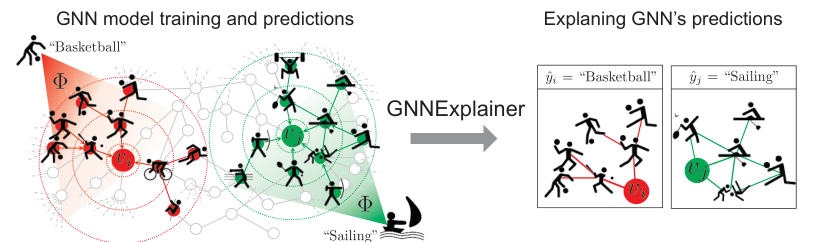
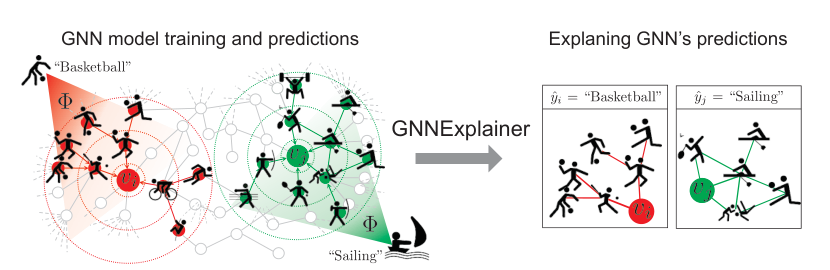
Restore full GNNExplainer figures and flatten blocks
Regenerate the first two GNNExplainer figures with enough source bounds to avoid clipped paper content and remove gradient fills from markdown block surfaces.

Constraint: User reported figures 1 and 2 were still clipped and requested no gradient fill in block cells.

Rejected: Keeping the prior crops | They still cut figure content or included too-tight bounds.

Confidence: high

Scope-risk: narrow

Directive: Keep paper figure crops generous and keep markdown blocks flat unless a user explicitly asks for decorative gradients.

Tested: python -m json.tool data/blog/posts.json; pytest -q tests/test_seo.py; npm --prefix web-ui run build; manual image inspection for figures 1 and 2.

Not-tested: Browser screenshot comparison after production deploy.

Changed region(s): [[0.0, 0.0289, 0.9756, 1.0], [0.6402, 0.0289, 0.9756, 0.1736]]

diff --git a/web-ui/src/components/BlogPage.css b/web-ui/src/components/BlogPage.css
@@ -1039,7 +1039,7 @@
 }
 
 .blog-detail-content pre {
-  background: linear-gradient(180deg, var(--wov-06), var(--wov-03));
+  background: var(--wov-04);
   border: 1px solid var(--wov-10);
   border-radius: 14px;
   padding: 18px 20px;
@@ -1061,7 +1061,7 @@
   position: relative;
   border: 1px solid var(--indigo-bd-20);
   border-left: 4px solid var(--indigo-bd-55);
-  background: linear-gradient(135deg, rgba(99, 102, 241, 0.12), var(--wov-02));
+  background: var(--wov-04);
   border-radius: 14px;
   padding: 18px 22px;
   margin: 30px 0;
